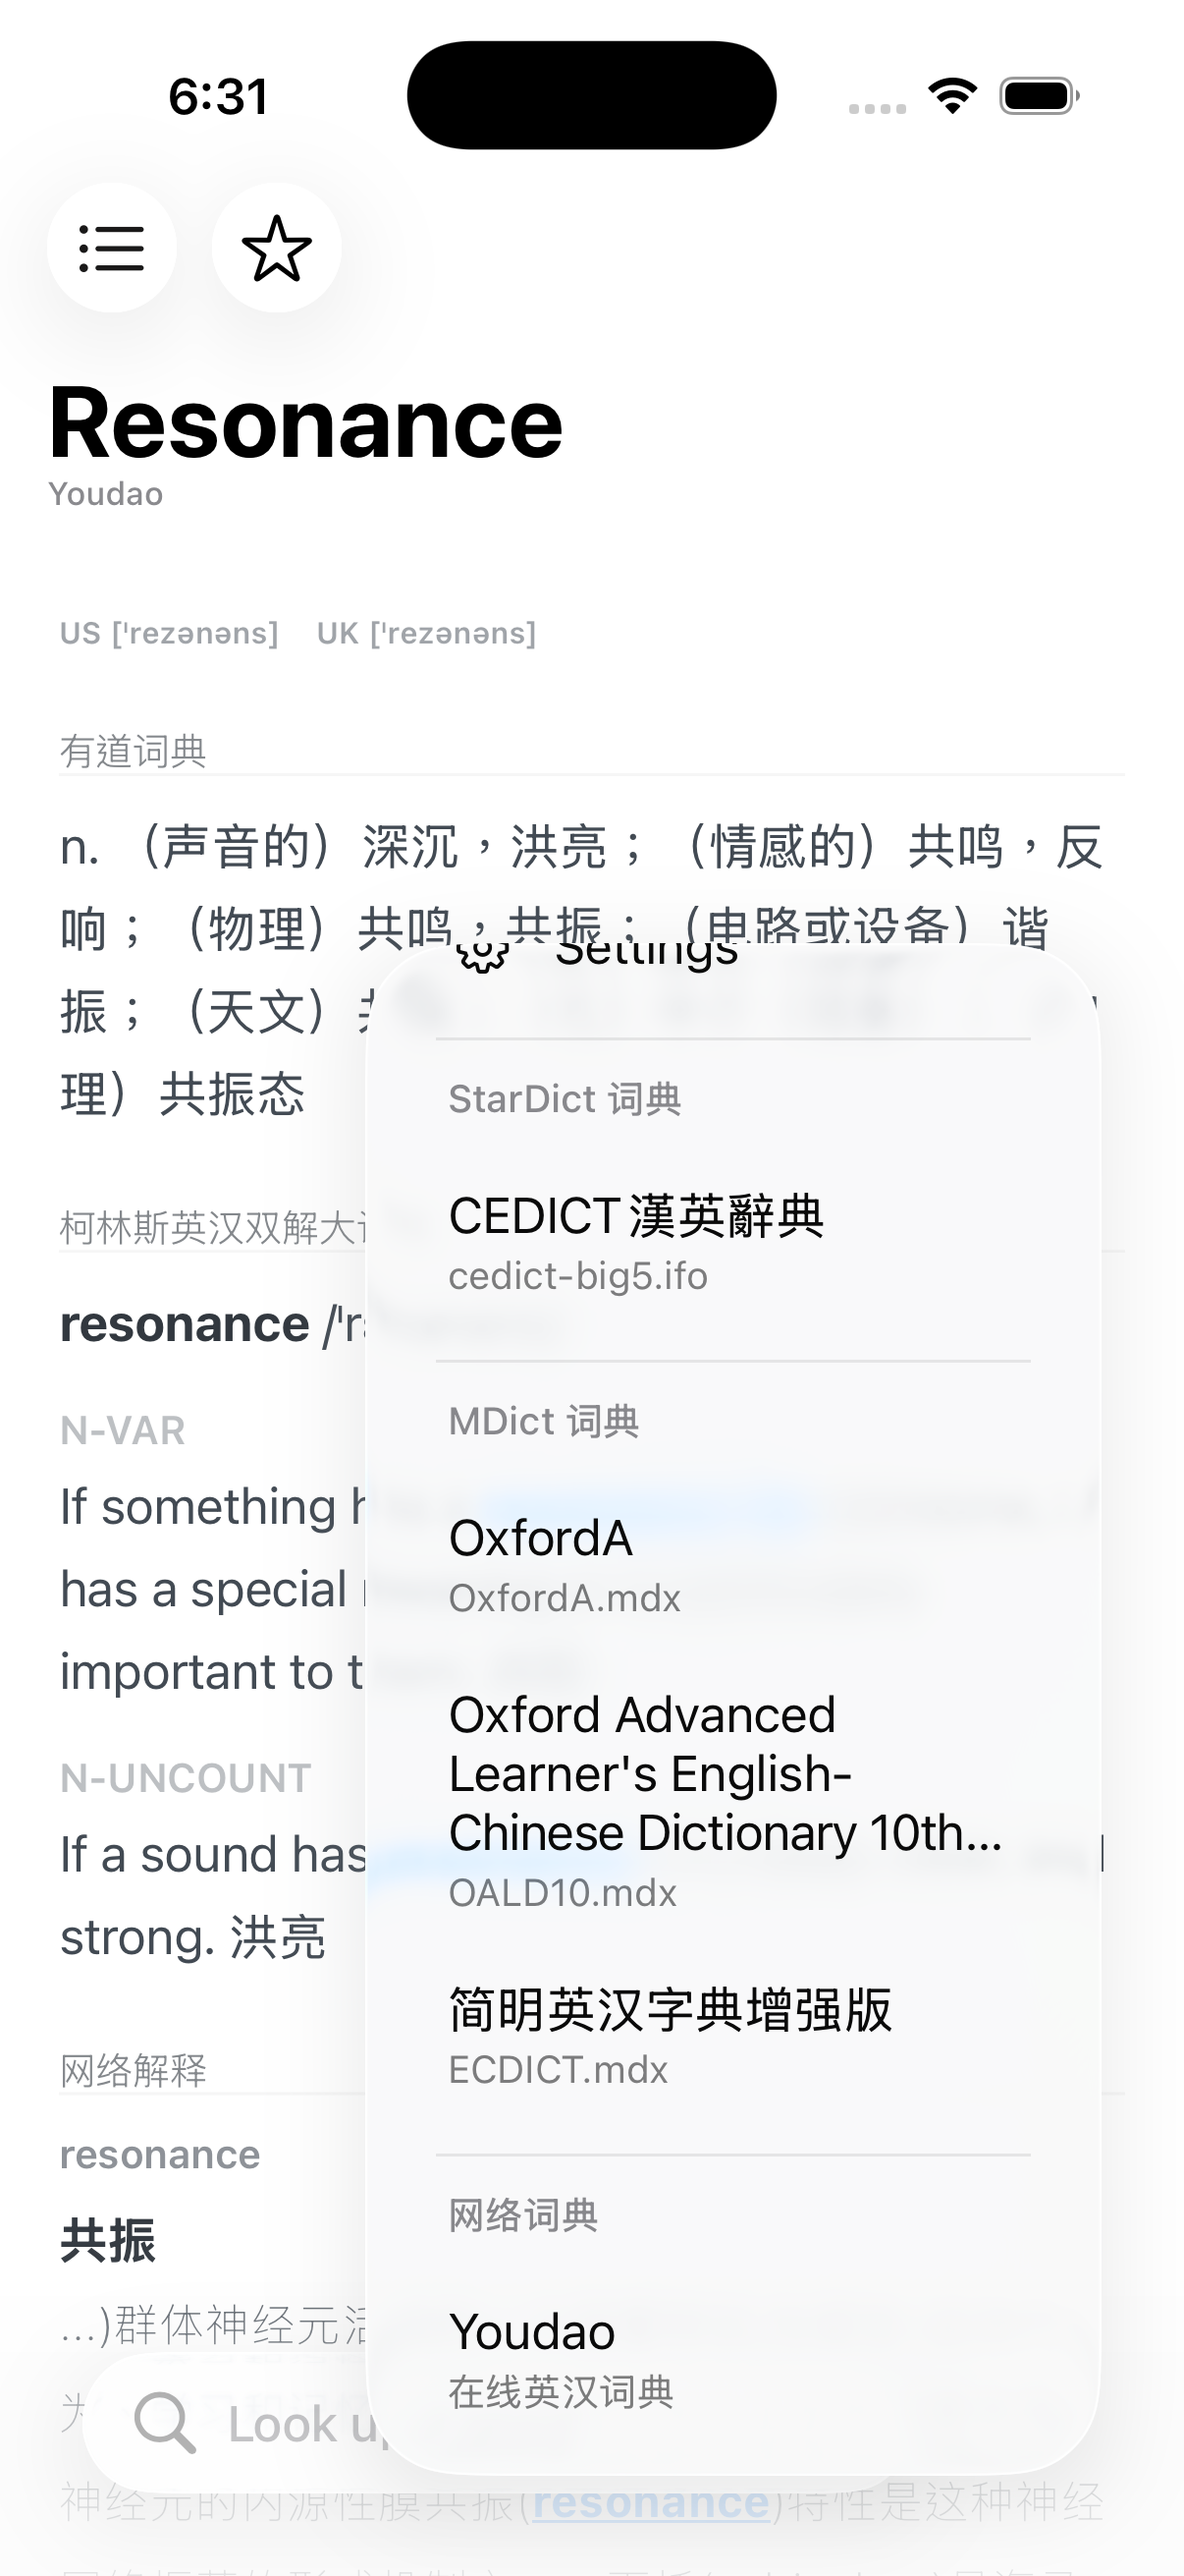
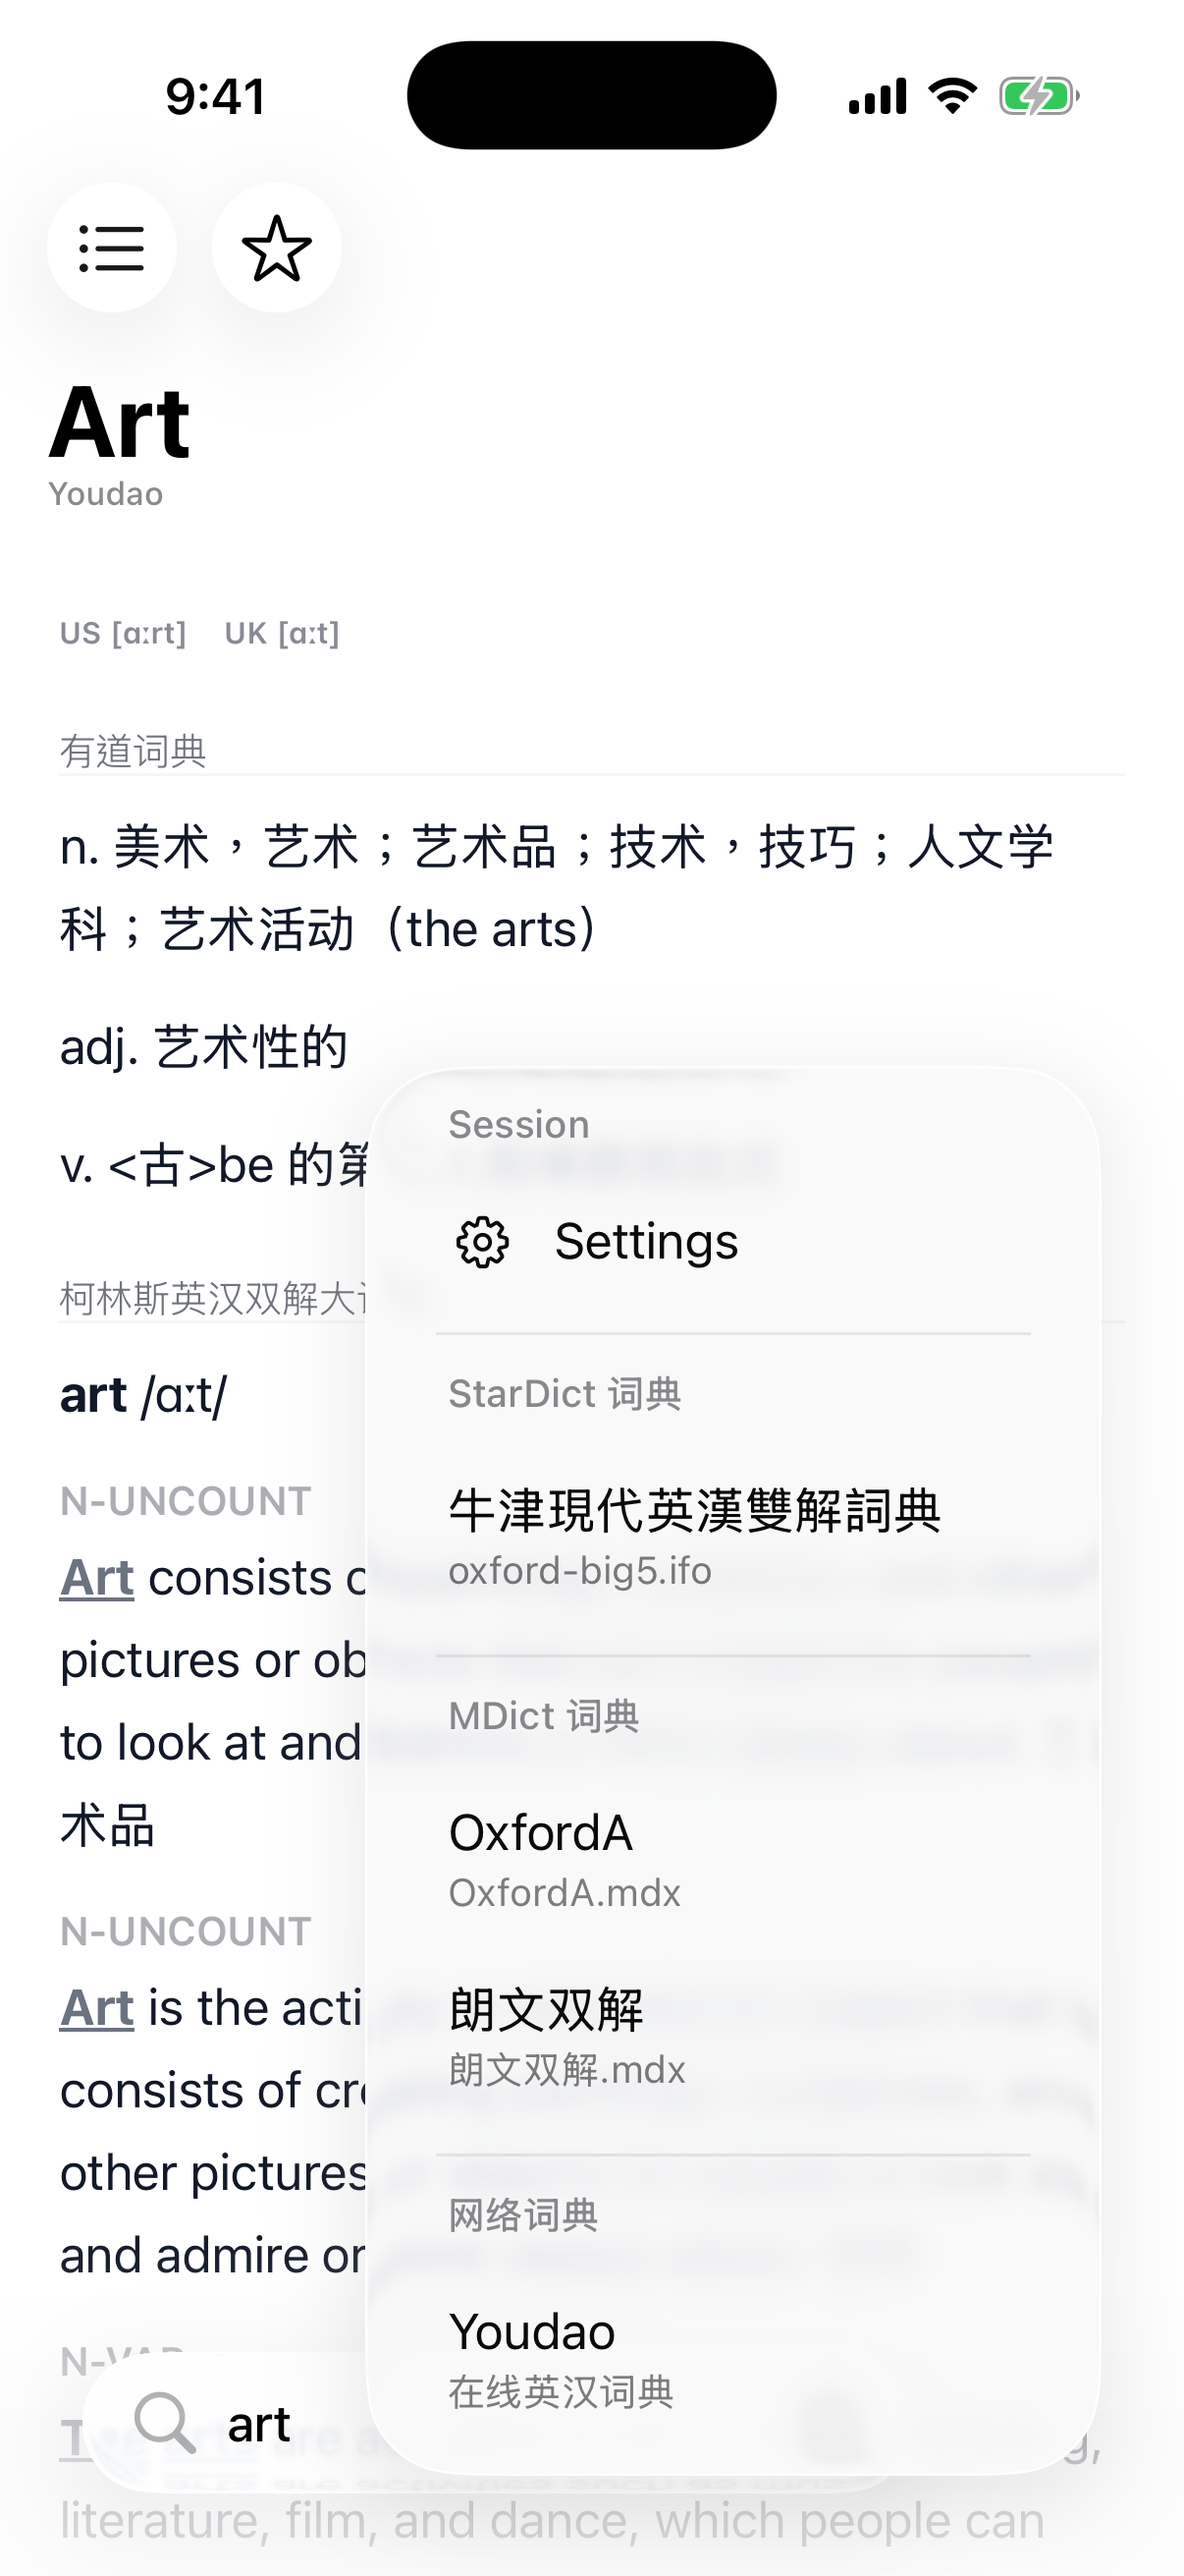
docs: update screenshot asset mapping

diff --git a/docs/section-drafts.md b/docs/section-drafts.md
@@ -21,10 +21,20 @@
 Hero 做完情緒後，剩下的螢幕不超過三個。每一屏都要有圖。
 
 可用截圖資產：
-- `adict-3-dictionary-menu.png` — 詞典切換選單（Youdao / MDict / StarDict）
-- `adict-3-mdict-lookup.png` — MDict 本地詞庫查詞結果
-- `adict-3-suggestions.png` — 候選詞建議
-- `adict-3-settings-pro.png` — Pro 權益設定
+- `main-hero-light.png` — Hero 用裁切圖，帶 iPhone 外框與透視角度。畫面是 `Word` 的 Youdao 查詞結果，頂部有選單與收藏按鈕，底部有玻璃質感搜尋列與紅色 `Y` 來源按鈕。白底、字重清楚，適合作為第一屏主視覺。
+- `main-hero-dark.png` — `main-hero-light.png` 的深色版本，同樣是 `Word` 的 Youdao 查詞結果與 iPhone 外框。適合做深色模式備案或視覺對比，不應和 light 版同屏重複使用。
+- `adict-3-home.png` — 完整 iPhone 截圖，`Word` / Youdao 查詞首頁狀態。可看到音標、有道詞典段落、網絡解釋、底部搜尋列與 `Y` 來源按鈕。它證明「打開 App 就能查詞」，但內容和 Hero 重疊，適合備用或裁切局部。
+- `adict-3-dictionary-menu.png` — 完整 iPhone 截圖，背景是 `Art` 的查詞結果，前景打開 Session / 詞典來源選單。選單內有 `Settings`、`StarDict 词典`（牛津現代英漢雙解詞典 / `oxford-big5.ifo`）、`MDict 词典`（`OxfordA.mdx`、朗文雙解 `.mdx`）和 `网络词典`（Youdao）。這張最能證明 Youdao、MDict、StarDict 都在同一個 App 裡，應作為 Section 1 主圖。
+- `adict-3-mdict-lookup.png` — 完整 iPhone 截圖，`Art` / `OxfordA` 的本地 MDict 查詞結果。畫面保留詞庫原本的 HTML/CSS 表現，包括紅色詞性標籤、星號、底線連結、橘色中文釋義、藍色例句翻譯與條列排版。這張最能證明本地 MDX 不是被轉成單調文字，應作為 Section 2 主圖。
+- `adict-3-session-menu.png` — 完整 iPhone 截圖，背景是 `language` / `OxfordA` 查詞結果，前景有半透明浮層列出近期或可切換的查詞項目（`art`、`language`，都標示 OxfordA）。適合講「查詞上下文 / session 可回到先前查過的詞」，但目前不是核心敘事，先作備用。
+- `adict-3-settings.png` — 完整 iPhone 截圖，Settings 首頁。可見 `Membership` 狀態為 `Pro`、`Dictionary Files` 狀態為 `Local`、`Intelligence` 狀態為 `Disabled`，下方說明 settings 依功能區分組。它適合放 FAQ 或 Pro / 設定透明度段落，不適合拿來證明詞庫格式。
+- `adict-3-settings-pro.png` — 完整 iPhone 截圖，實際內容是 `Dictionary Files` 管理頁，不是 Pro 權益頁。畫面包含 `Sync with iCloud` 開關、`No iCloud Documents container available.` 提示、`Open folder`、檔案放置說明，以及本地檔案清單：MDict 有 `朗文雙解.mdx`、`OxfordA.mdx`，StarDict 有 `牛津現代英漢雙解詞典` / `oxford-big5.ifo`。這張最適合支撐「你的檔案、你的資料、可本地保存 / 可同步」的說法，可與 Section 2 搭配或作 Section 3。
+- `adict-3-suggestions.png` — 完整 iPhone 截圖，背景是 `Language` / `OxfordA` 的 MDict 查詞結果，底部搜尋框正在輸入 `Art`，上方彈出候選詞卡片（`art deco`、`artful`、`artery`、`art`），每個候選帶詞形、音標與摘要。適合展示查詞過程的速度與候選建議，作為互動細節備用。
+
+非截圖輔助資產：
+- `adict-app-icon.png` — 256×256 App icon，紅底白色書本圖形。目前用於 header brand。
+- `proof-avatar-1.png`、`proof-avatar-2.png`、`proof-avatar-3.png` — 512×512 頭像圖，原本屬於 proof / testimonial 視覺。當前 landing page 沒有 testimonial 區塊，不進主要敘事。
+- `assets/old/*` — 舊版截圖備份，不列入目前文案配圖決策。
 
 ### 節奏（圖文配對）
 
@@ -39,21 +49,29 @@ Section 2       → 圖：MDict 查詞結果（mdict-lookup）
                   文：你的檔案、你的資料歸你
 
 Section 3？     → 暫不決定。如果兩屏已夠，直接進 FAQ + CTA。
-                  如果需要第三屏，方向是使用者命題（免費/Pro、跨裝置等）
+                  如果需要第三屏，優先方向是檔案管理 / 同步透明度。
+                  免費 / Pro 只能用 settings 首頁輔助說明；跨裝置目前缺圖。
 
 FAQ + CTA       → 五題 FAQ + App Store / TestFlight
 ```
 
-### 圖片分工
+### 資產關係表
 
-| 圖片 | 放在哪 | 說什麼 |
-|------|--------|--------|
-| `main-hero-light.png` | Hero | 產品外觀 |
-| 左卡 + 右卡 | Hero | 來源 + 檔案格式（一句話預告） |
-| `adict-3-dictionary-menu.png` | S1 | 三種來源真的在同一個 App 裡 |
-| `adict-3-mdict-lookup.png` | S2 | 你自己的 mdx 檔案，原樣渲染 |
-| `adict-3-settings-pro.png` | 可選 FAQ 區 | Pro 解鎖了什麼，透明 |
-| `adict-3-suggestions.png` | 備用 | 如果需要展示查詞體驗細節
+| 資產 | 正確內容 | 建議位置 | 承擔的訊息 | 使用狀態 |
+|------|----------|----------|------------|----------|
+| `main-hero-light.png` | 帶 iPhone 外框的 `Word` / Youdao 查詞畫面，白底 | Hero 主視覺 | aDict 是一個查詞 App，查詞結果可停在閱讀邊上 | 已用 |
+| `main-hero-dark.png` | 同一個 Hero 查詞畫面的深色版本 | Hero 深色模式備案 | 同一體驗支援深色視覺 | 備用 |
+| Hero 左資訊卡 | `Dictionary Sources`，列 Youdao / MDict / StarDict | Hero | 先讓讀者知道支援雲端與本地詞典來源 | 已用 |
+| Hero 右資訊卡 | `Dictionary Files`，列 MDX / MDD / CSS / StarDict | Hero | 先讓讀者知道可帶入自己的詞庫檔案 | 已用 |
+| `adict-3-dictionary-menu.png` | Session / 詞典來源選單，列 Settings、StarDict、MDict、Youdao | Section 1 | 三種詞典世界真的在同一個 App 內切換 | 主圖 |
+| `adict-3-mdict-lookup.png` | `Art` / `OxfordA` 的 MDict HTML/CSS 查詞結果 | Section 2 | 本地 MDX 以原始結構與樣式渲染，不只是純文字 | 主圖 |
+| `adict-3-settings-pro.png` | `Dictionary Files` 管理頁，含 iCloud、Open folder、MDict / StarDict 檔案清單 | Section 2 輔圖或 Section 3 | 檔案是使用者自己的，可本地管理，也可談同步 | 候選主圖 |
+| `adict-3-settings.png` | Settings 首頁，Membership / Dictionary Files / Intelligence 分組 | FAQ 或 Pro 說明 | Pro、檔案來源與智慧功能的設定入口透明可見 | 備用 |
+| `adict-3-suggestions.png` | 搜尋輸入 `Art` 時的候選詞建議列表 | Section 3 或互動細節 | 查詞不是只有結果頁，也有即時候選與回查流程 | 備用 |
+| `adict-3-session-menu.png` | 半透明 session / 近期查詞浮層，列 `art`、`language` | Section 3 或備用 | 可回到先前查過的詞，保留查詞上下文 | 備用 |
+| `adict-3-home.png` | 完整 `Word` / Youdao 首頁查詞結果 | 備用 | 有道查詞的完整畫面；和 Hero 重疊，不優先放正文 | 備用 |
+| `adict-app-icon.png` | App icon | Header / metadata | 品牌識別 | 已用 |
+| `proof-avatar-*.png` | 三張 testimonial 頭像 | 若未來新增 proof 區 | 使用者評價視覺，不承擔產品功能說明 | 暫不使用 |
 
 ---
 
@@ -137,8 +155,9 @@ your devices — exportable, portable, yours.
 如果兩屏（S1 來源 + S2 檔案與資料）已經講完核心，可以不走第三屏，直接進 FAQ + CTA。
 
 如果需要第三屏，方向應該是使用者在乎的事，例如：
-- 免費 / Pro 的透明分界（settings-pro 截圖）
-- 跨裝置（iPhone + iPad + Mac）
+- 檔案管理 / 同步透明度（`adict-3-settings-pro.png`，實際是 Dictionary Files 管理頁）
+- 免費 / Pro 的透明分界（`adict-3-settings.png` 只能證明 Membership 狀態，不是權益表）
+- 跨裝置（需要另外的 iPhone + iPad + Mac 視覺，目前截圖資產不足）
 - 深色模式與閱讀舒適
 
 暫不展開，等 S1、S2 定稿後再判斷需不需要第三屏。
